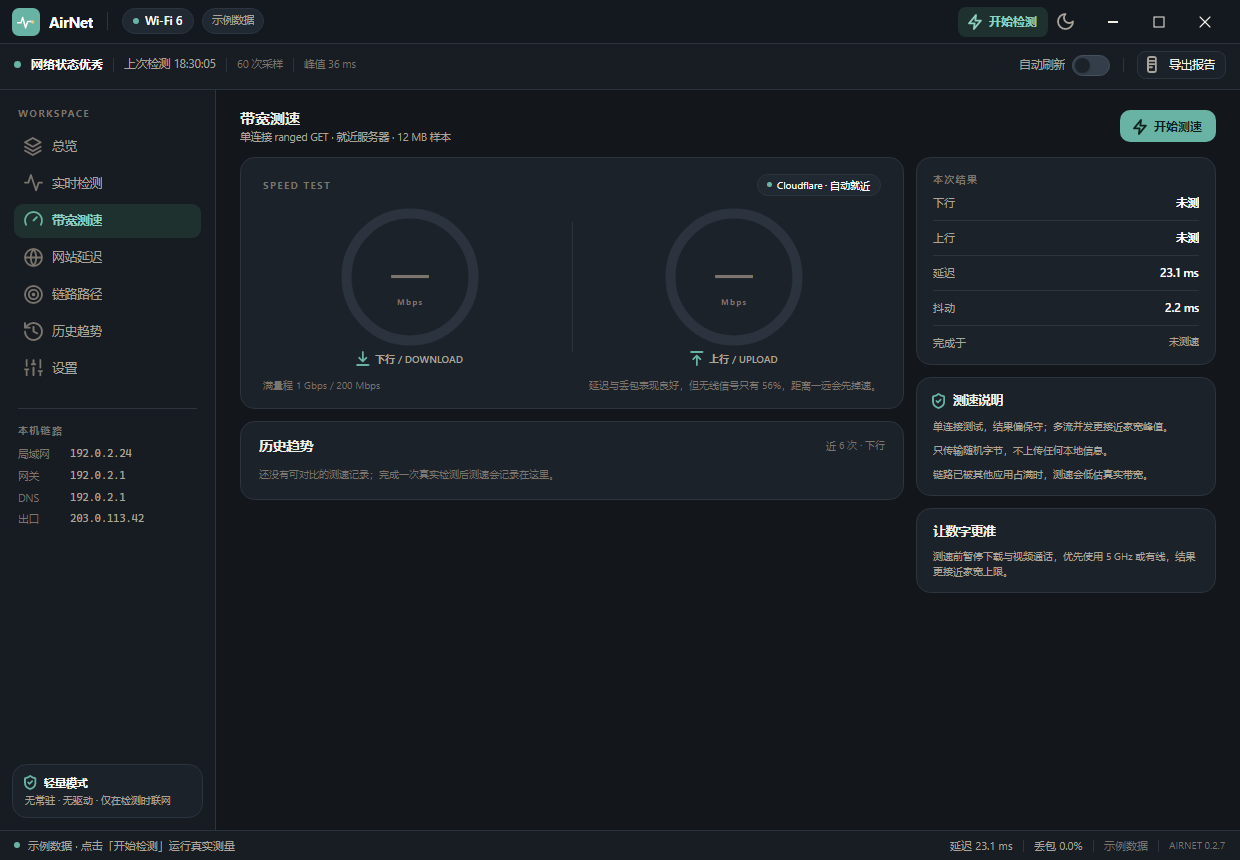
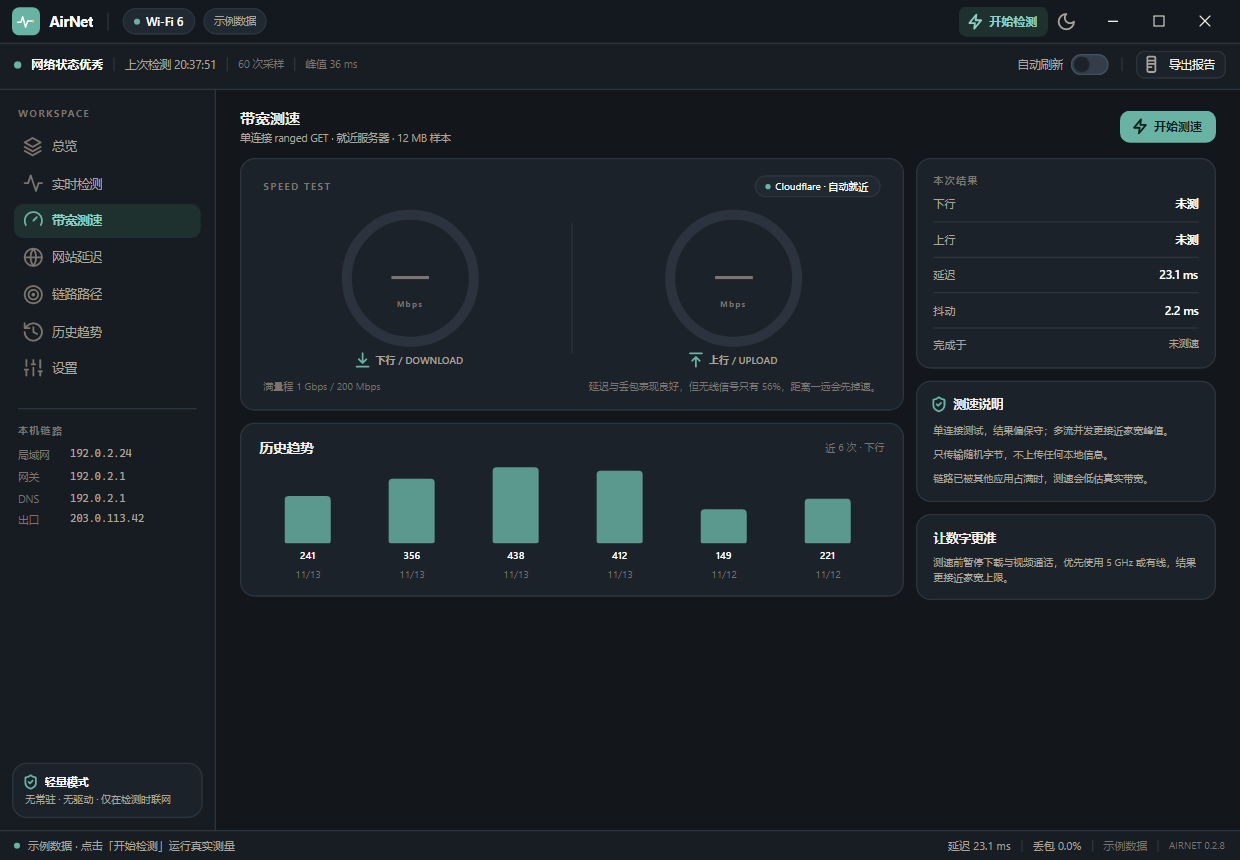
release: 0.2.8 with trend data in the screenshot pipeline
Cuts the unreleased work: history trends, share card, bandwidth in the manual
scan, and the pending start state.

The other half of this commit fixes a documentation hole: the trend page's
screenshots were all empty states, because --export runs against an empty data
directory. It now seeds a deterministic week (SampleHistory) into that throwaway
directory, so the docs show charts, time-of-day buckets and recent runs. The
sample is shaped deliberately - two bad evenings, scores derived from the latency
- because a week where every day looks the same proves nothing, and the analyzer
skips IsSample rows, so these are written as ordinary records inside the isolated
export directory only.

148 tests (was 142), six of them covering the sample week.

diff --git a/src/AirNet.Core/Demo/SampleHistory.cs b/src/AirNet.Core/Demo/SampleHistory.cs
@@ -1,0 +1,106 @@
+using AirNet.Core.History;
+using System.Globalization;
+using System.Text.Json;
+
+namespace AirNet.Core.Demo;
+
+/// <summary>
+/// A deterministic week of runs for the screenshot pipeline only.
+/// </summary>
+/// <remarks>
+/// The trend page deliberately ignores <see cref="HistoryRecord.IsSample"/> rows so the demo
+/// snapshot cannot pollute real history. That guard is right, which is why this generator is
+/// used in exactly one place: the isolated data directory that <c>--export</c> creates, so the
+/// trend page can be documented with a chart instead of an empty state. Nothing here is random —
+/// every export produces the same week, so screenshots stay comparable.
+/// </remarks>
+public static class SampleHistory
+{
+    /// <summary>Rubber-stamp values keyed by hour of day: 早高峰 / 午间 / 晚高峰 / 深夜.</summary>
+    private static readonly (int Hour, double Latency, double Jitter, double Loss, double Down, double Up)[] DayShape =
+    [
+        (8, 16.4, 1.8, 0.0, 412.0, 21.5),
+        (13, 14.9, 1.6, 0.0, 438.0, 22.8),
+        (19, 24.7, 3.1, 0.0, 356.0, 19.4),
+        (21, 38.2, 5.4, 0.4, 241.0, 15.2),
+    ];
+
+    /// <summary>Seven days ending at <paramref name="reference"/>, oldest first.</summary>
+    public static IReadOnlyList<HistoryRecord> Week(DateTimeOffset reference)
+    {
+        var records = new List<HistoryRecord>(DayShape.Length * 7);
+
+        for (var back = 6; back >= 0; back--)
+        {
+            var day = reference.Date.AddDays(-back);
+
+            // Two of the seven evenings are deliberately bad: a trend where every day looks the
+            // same proves nothing, and "周日晚高峰变差" is what the page is meant to reveal.
+            var badEvening = back is 1 or 4;
+
+            foreach (var (hour, latency, jitter, loss, down, up) in DayShape)
+            {
+                var evening = hour >= 19;
+                var factor = evening && badEvening ? 1.55 : 1.0;
+                var latencyValue = Math.Round(latency * factor, 1);
+                var lossValue = evening && badEvening ? Math.Round(loss + 0.8, 1) : loss;
+
+                records.Add(new HistoryRecord
+                {
+                    At = new DateTimeOffset(day.AddHours(hour), reference.Offset),
+                    Score = ScoreOf(latencyValue, lossValue),
+                    Grade = GradeOf(ScoreOf(latencyValue, lossValue)),
+                    Kind = "Wi-Fi 6",
+                    Ssid = "AIRNET-5G",
+                    LatencyAvg = latencyValue,
+                    Jitter = Math.Round(jitter * factor, 1),
+                    Loss = lossValue,
+                    DownMbps = evening && badEvening ? Math.Round(down * 0.62, 1) : down,
+                    UpMbps = up,
+                    LocalAddress = "192.0.2.24",
+                    Verdict = "示例",
+                    IsSample = false,
+                });
+            }
+        }
+
+        return records;
+    }
+
+    /// <summary>Writes the week as JSONL into <paramref name="directory"/> (creates it).</summary>
+    public static async Task WriteAsync(
+        string directory,
+        DateTimeOffset reference,
+        CancellationToken cancellationToken = default)
+    {
+        Directory.CreateDirectory(directory);
+        var path = Path.Combine(directory, "history.jsonl");
+
+        var lines = Week(reference).Select(record =>
+            JsonSerializer.Serialize(record, DemoHistoryJsonContext.Default.HistoryRecord));
+
+        await File.WriteAllLinesAsync(path, lines, cancellationToken).ConfigureAwait(false);
+    }
+
+    private static int ScoreOf(double latency, double loss)
+    {
+        var score = 98 - Math.Max(0, latency - 14) * 0.85 - loss * 9;
+        return (int)Math.Clamp(Math.Round(score), 40, 99);
+    }
+
+    private static string GradeOf(int score) => score switch
+    {
+        >= 90 => "优秀",
+        >= 75 => "良好",
+        >= 60 => "一般",
+        _ => "较差",
+    };
+}
+
+/// <summary>
+/// Its own context: the store's one is internal to the history namespace, and trimming needs a
+/// declared shape for every serialized type.
+/// </summary>
+[System.Text.Json.Serialization.JsonSourceGenerationOptions(WriteIndented = false)]
+[System.Text.Json.Serialization.JsonSerializable(typeof(HistoryRecord))]
+internal sealed partial class DemoHistoryJsonContext : System.Text.Json.Serialization.JsonSerializerContext;

diff --git a/tests/AirNet.Core.Tests/SampleHistoryTests.cs b/tests/AirNet.Core.Tests/SampleHistoryTests.cs
@@ -1,0 +1,84 @@
+using AirNet.Core.Demo;
+using Xunit;
+
+namespace AirNet.Core.Tests;
+
+public sealed class SampleHistoryTests
+{
+    private static readonly DateTimeOffset Reference = new(2026, 11, 13, 20, 0, 0, TimeSpan.FromHours(8));
+
+    [Fact]
+    public void A_week_holds_four_runs_a_day_for_seven_days()
+    {
+        var week = SampleHistory.Week(Reference);
+
+        Assert.Equal(28, week.Count);
+        Assert.Equal(7, week.Select(r => r.At.Date).Distinct().Count());
+    }
+
+    [Fact]
+    public void Records_are_ordered_oldest_first_and_stay_in_the_past()
+    {
+        var week = SampleHistory.Week(Reference);
+
+        Assert.True(week.Zip(week.Skip(1)).All(pair => pair.First.At <= pair.Second.At));
+        Assert.All(week, record => Assert.True(record.At <= Reference.AddDays(1)));
+    }
+
+    [Fact]
+    public void The_week_is_deterministic_so_screenshots_are_comparable()
+    {
+        var first = SampleHistory.Week(Reference);
+        var second = SampleHistory.Week(Reference);
+
+        Assert.Equal(
+            first.Select(r => (r.Score, r.LatencyAvg, r.DownMbps)),
+            second.Select(r => (r.Score, r.LatencyAvg, r.DownMbps)));
+    }
+
+    [Fact]
+    public void Some_evenings_are_deliberately_worse_so_the_chart_shows_something()
+    {
+        var week = SampleHistory.Week(Reference);
+
+        var evening = week.Where(r => r.At.Hour >= 19).Select(r => r.LatencyAvg).ToList();
+        var daytime = week.Where(r => r.At.Hour < 19).Select(r => r.LatencyAvg).ToList();
+
+        Assert.True(evening.Max() > daytime.Max() * 1.4);
+        Assert.Contains(week, r => r.Loss >= 0.5);
+    }
+
+    [Fact]
+    public void Scores_follow_the_measured_latency_instead_of_being_decorative()
+    {
+        var week = SampleHistory.Week(Reference);
+
+        var worst = week.MaxBy(r => r.LatencyAvg)!;
+        var best = week.MinBy(r => r.LatencyAvg)!;
+
+        Assert.True(worst.Score < best.Score);
+        Assert.All(week, r => Assert.InRange(r.Score, 40, 99));
+    }
+
+    [Fact]
+    public async Task Writing_produces_one_json_line_per_record()
+    {
+        var directory = Path.Combine(Path.GetTempPath(), "airnet-sample-" + Guid.NewGuid().ToString("N"));
+
+        try
+        {
+            await SampleHistory.WriteAsync(directory, Reference);
+            var lines = await File.ReadAllLinesAsync(Path.Combine(directory, "history.jsonl"));
+
+            Assert.Equal(28, lines.Length);
+            Assert.All(lines, line => Assert.StartsWith("{", line));
+        }
+        finally
+        {
+            if (Directory.Exists(directory))
+            {
+                Directory.Delete(directory, recursive: true);
+            }
+        }
+    }
+}

diff --git a/src/AirNet.App/App.axaml.cs b/src/AirNet.App/App.axaml.cs
@@ -29,6 +29,23 @@ public partial class App : Application
 
                 // Static captures: no counting numbers, no sweeping charts, no fading pages.
                 Features.Motion.Enabled = false;
+
+                // The trend page needs a populated week, otherwise its screenshots document an
+                // empty state. This writes into the throwaway directory set above, so the user's
+                // own history is never touched.
+                try
+                {
+                    Core.Demo.SampleHistory
+                        .WriteAsync(
+                            Path.Combine(Path.GetTempPath(), "airnet-export-data"),
+                            DateTimeOffset.Now)
+                        .GetAwaiter()
+                        .GetResult();
+                }
+                catch (Exception ex) when (ex is IOException or UnauthorizedAccessException)
+                {
+                    // Screenshots are best effort; an unwritable temp dir must not block them.
+                }
             }
 
             // Headless measurement run, used to verify the probe stack without a window.

diff --git a/src/AirNet.App/ViewModels/SettingsViewModel.cs b/src/AirNet.App/ViewModels/SettingsViewModel.cs
@@ -74,7 +74,7 @@ public partial class SettingsViewModel : ObservableObject
 
     public bool HasNeighborRows => NeighborRows.Count > 0;
 
-    public string VersionText => "0.2.7 · M3";
+    public string VersionText => "0.2.8 · M3";
     public string RuntimeText => ".NET 10 · Avalonia 11.3 · Windows / macOS / Linux";
     public string FootprintText => "R2R 单文件 · 无驱动 · 无后台常驻";
     public string PrivacyText =>

diff --git a/CHANGELOG.md b/CHANGELOG.md
@@ -3,22 +3,31 @@
 All notable changes are documented here. The format follows Keep a Changelog and the
 project uses semantic versioning for release tags.
 
-## [Unreleased]
+## [0.2.8] - 2026-11-13
+
+### Added
+
+- History trend page: 7/30-day latency and score curves, local time-of-day buckets and
+  recent runs. The evening bucket states its own conclusion ("晚间平均 36.3 ms，高于整体
+  25.6 ms") instead of leaving the reader to eyeball the chart.
+- Share card: a 1080 × 1350 PNG generated from the current snapshot, with a preview
+  window and a file picker; the tray menu exposes the same action.
+- The manual "开始检测" now includes a download/upload bandwidth pass after the latency
+  probes; the 60-second automatic refresh deliberately skips the upload.
 
 ### Fixed
 
 - Normal startup now begins in an explicit pending state instead of showing sample score,
   latency, path or bandwidth values. Starting a scan clears the previous view and fills
   the live/real values; cancel restores the last real view.
-
-### Added
-
-- The manual "开始检测" now includes a download/upload bandwidth pass after the latency
-  probes; the 60-second automatic refresh deliberately skips the upload.
-- History trend page: 7/30-day latency and score curves, local time-of-day buckets and
-  recent runs.
-- Share card: a 1080 × 1350 PNG generated from the current snapshot, with a preview
-  window and file picker.
+- The trend page had no screenshot worth linking: the export pipeline ran against an
+  empty data directory, so every capture documented the empty state. `--export` now
+  seeds a deterministic week into its throwaway directory, which makes the charts, the
+  time-of-day buckets and the recent-runs list visible in the docs without touching the
+  user's own history.
+  +
+  Added six tests around the sample week: record count, ordering, determinism, the
+  deliberately bad evenings, score-follows-latency, and the JSONL shape (148 total).
 
 ## [0.2.7] - 2026-11-13
 

diff --git a/docs/release/v0.2.8.md b/docs/release/v0.2.8.md
@@ -1,0 +1,25 @@
+## AirNet 0.2.8
+
+历史趋势与分享卡片。**仅提供免安装便携包，不提供 setup/安装器**；Windows / macOS / Linux 全部为 Native AOT。
+
+### 新增
+
+- **历史趋势页**：7 天 / 30 天的延迟与评分曲线、按本地时段的分布、最近记录列表。晚间时段会自己给结论——"晚间平均 36.3 ms，高于整体 25.6 ms"，不用盯着图猜。
+- **分享卡片**：从当前快照生成 1080 × 1350 的 PNG，带预览窗口与保存对话框；托盘菜单同一入口。
+- **手动检测内置带宽测速**：延迟探针之后跑一次下行 + 上行；60 秒自动刷新只跑延迟，不消耗上行带宽。
+
+### 修复
+
+- **启动不再预填假数据**：以前一打开就显示样例分数、延迟、路径和带宽。现在明确「等待检测」，开始检测才写入本次结果，取消则恢复上一次真实结果。
+- **趋势页终于有截图可看**：导出流水线跑在空数据目录上，之前的截图全是"还没有历史记录"。现在 `--export` 会往隔离目录里写一周确定性样例，图表、时段分布和最近记录都能展示，且完全不碰用户自己的历史。
+
+### 平台与体积
+
+- Windows x64 AOT：16.8 MB zip；本机启动 0.5 s、内存约 131 MB；需保留同目录原生 DLL（Skia / HarfBuzz / GLES）。
+- Linux x64 / arm64 AOT：约 16 MB，要求 glibc ≥ 2.35。
+- macOS arm64 / x64 AOT：约 27–29 MB，未签名未公证。
+- Linux arm64 与 macOS 双架构为 CI 构建通过、运行待真机验证。
+
+### 测试
+
+- 148 项单元测试（0.2.7 时为 142）；本轮新增样例历史一周、确定性与写盘格式的覆盖。

diff --git a/README.md b/README.md
@@ -97,7 +97,7 @@ powershell -File packaging/pack-all.ps1                          # Windows AOT +
 | macOS Apple Silicon / Intel | `AirNet-<version>-macos-arm64-aot.zip` / `-macos-x64-aot.zip`，解压得到 `AirNet.app` |
 | Linux x64 / arm64 | `AirNet-<version>-linux-x64-aot.tar.gz` / `-linux-arm64-aot.tar.gz`；解压后直接 `bash run.sh`（只提供一个归档，要求 glibc ≥ 2.35） |
 
-> 当前最新 Release 仍是 `v0.2.6`；`v0.2.7` 起 Windows/macOS/Linux 全部改走 AOT。
+> `v0.2.7` 起 Windows/macOS/Linux 全部改走 Native AOT；`v0.2.8` 是第一个把这套包和趋势页、分享卡片一起发出去的版本。
 
 
 Linux 包要求 glibc ≥ 2.35，需要 X11 或 Wayland（XWayland）及常见桌面库；Linux x64 AOT 已在真实环境验证，arm64 待验证。macOS 包未签名/未公证，暂未在真机验证。CI 会把 Windows/macOS 的 zip 与 Linux 的 tar.gz 挂到对应 Release，不构建 setup。
